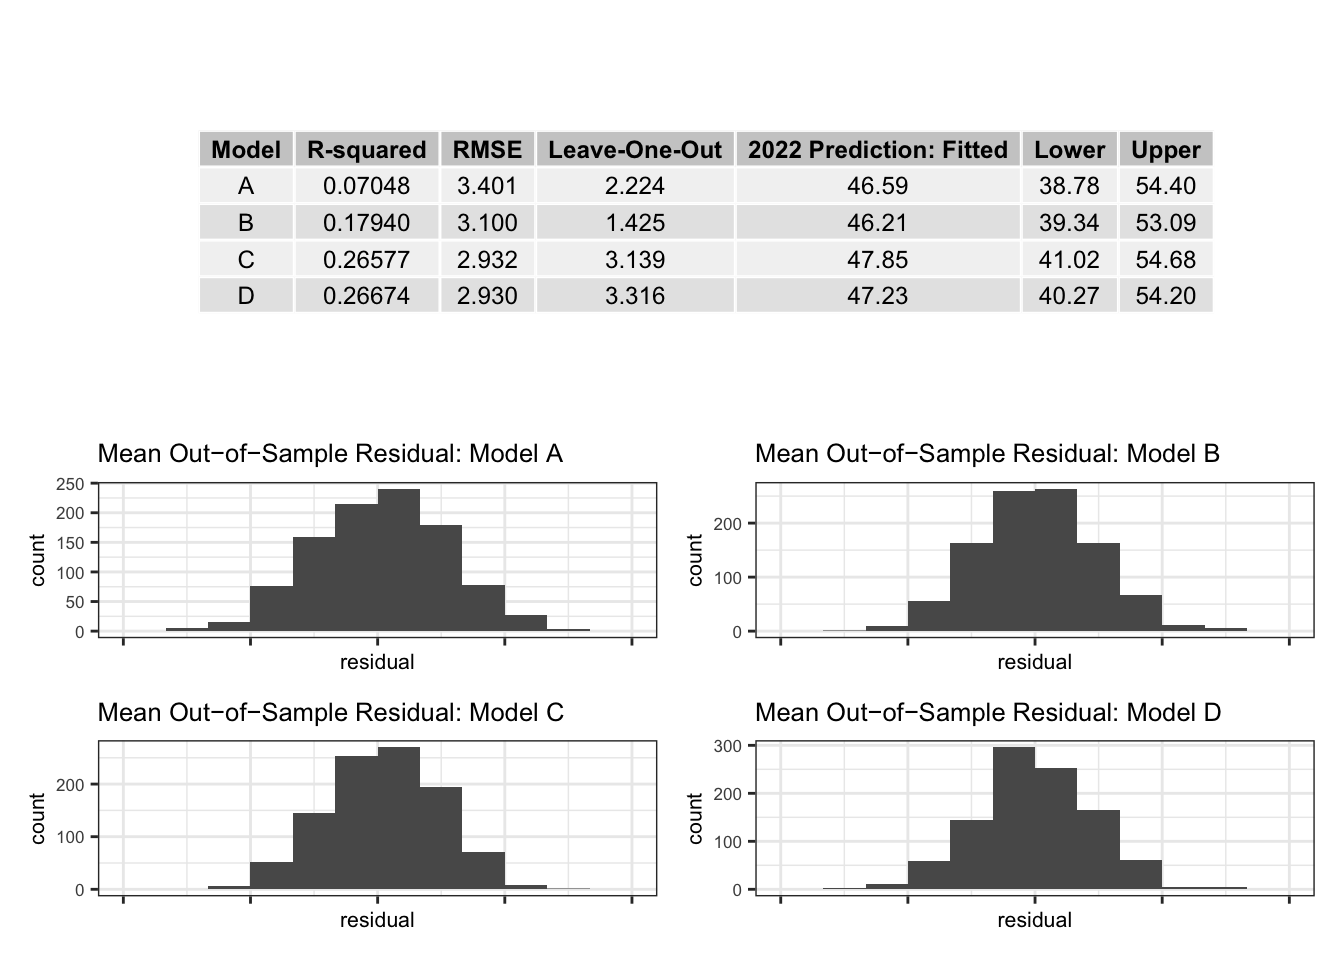
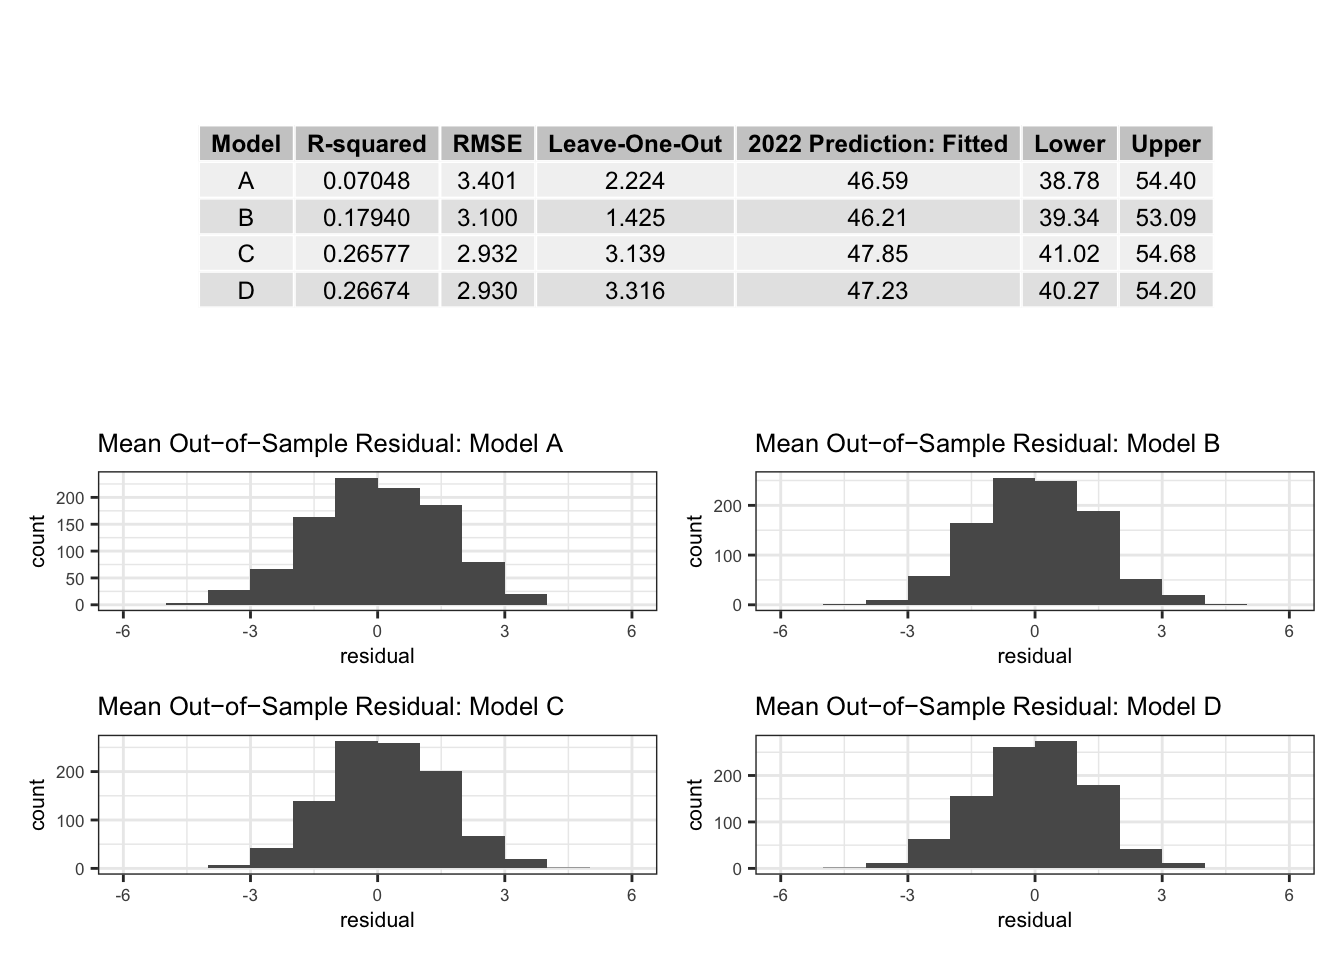
Finalize post 2

diff --git a/content/posts/02-economy/index.html b/content/posts/02-economy/index.html
@@ -7,16 +7,16 @@ output: html_document
 
 
 
+<p>Voters often look back to the past when deciding who to vote for. In particular, for good or for bad, economic conditions tend to have an impact on how well the party in power performs in elections (Achen &amp; Bartels, 2017). In this week, I will focus on economic conditions as a key predictor of electoral outcomes.</p>
 <div id="economic-voting" class="section level2">
 <h2>Economic Voting</h2>
+<p>Focusing on Presidential elections, Achen &amp; Bartels (2017) demonstrate that short-term economic growth is a strong predictor of the popular vote margin of the President’s party. They argue that the growth in real disposable income (RDI) per capita in the 2nd and 3rd quarter of the Presidential election year is a better predictor than cumulative growth.</p>
+<p>Keeping this in mind, I hypothesize that the short-term changes in the state of the economy in the leadup to Congressional elections are strong predictors of how well the incumbent President’s party performs. Similar to Achen &amp; Bartels (2017), I focus on the state of economy in the 2nd and 3rd quarter of the election year (Q6 and Q7). Focusing on Congressional elections between 1948 and 2020, I measure the performance of the President’s party by calculating the President’s party’s two-party vote share. As seen in Table 1, the independent variables in Models (1) ~ (6) are the RDI growth between Q6 and Q7, gross domestic product (GDP) growth between Q6 and Q7, unemployment in Q7, and whether the election is a midterm election. I included a dummy variable for midterms because the President’s party has tended to lose seats in a midterm election year (Campbell, 2018, p. 1).</p>
 <p><img src="table1.png" /></p>
-<div id="whats-wrong-with-these-models-multicollinearity" class="section level4">
-<h4>What’s wrong with these models?: Multicollinearity</h4>
-<p>-0.72 and (p-value: 4.2e-06)</p>
-<p>0.58 (p-value: 8e-04)</p>
-</div>
-<div id="whats-wrong-with-these-models-outlier" class="section level4">
-<h4>What’s wrong with these models?: Outlier</h4>
+<div id="whats-wrong-with-these-models-multicollinearity-outlier" class="section level4">
+<h4>What’s wrong with these models?: Multicollinearity &amp; Outlier</h4>
+<p>As seen in Table 1, none of the variables in Models (1) ~ (6) were statistically significant. There are several issues with these models. In particular, the fact that both RDI growth and GDP growth were included as independent variables in models (5) and (6) could have been problematic because the two variables may be correlated. The correlation coefficient between RDI growth and GDP growth was -0.72 (p-value: 4.2e-06). This may seem surprising because in theory, RDI growth and GDP growth should be positively correlated. As seen in Figure 1, the correlation coefficient may have been affected by an outlier: 2020.</p>
+<p>The rest of the observations seem to suggest that there is a positive correlation. Indeed, after discarding the data from 2020, I found that the correlation coefficient was 0.58 (p-value: 8e-04). Because this suggests that there is a risk of multicollinearity, I decided not to include both RDI growth and GDP growth as independent variables in my models. Furthermore, I decided to exclude 2020 from my analysis because the data from 2020 harms the predictive power of the models.</p>
 <div class="figure"><span style="display:block;" id="fig:outlier"></span>
 <img src="{{< blogdown/postref >}}index_files/figure-html/outlier-1.png" alt="GDP Growth vs RDI Growth: Q7-Q8" width="672" />
 <p class="caption">
@@ -27,7 +27,9 @@ Figure 1: GDP Growth vs RDI Growth: Q7-Q8
 </div>
 <div id="predictive-models" class="section level2">
 <h2>Predictive Models</h2>
+<p>Based on these observations, I built 4 predictive models. Whereas in model (A), the independent variable of interest is RDI growth between Q6 and Q7, in Model (B), I replace that with Q6-Q7 GDP growth. In Model (C), I included unemployment in Q7 as an independent variable because incumbent parties tend to be punished for high unemployment, though the effect may differ based on the party in power (Wright, 2012). (Note that while Wright (2012) suggests that higher unemployment is associated with higher vote shares for Democratic candidates, I was not able to identify such a trend when I ran a regression only for the years in which the incumbent President was a Democrat.) In Model (D), I shed light on the impact of cumulative GDP growth rate (between Q1 and Q7). Comparing Model (C) and Model (D) is important because some suggest that while voters do tend to judge incumbent Presidents based on economic conditions in the election year, they actually want to judge incumbent Presidents based on cumulative records (Healy &amp; Lenz, 2014).</p>
 <p><img src="table2.png" /></p>
+<p>As seen in Table 2, Models (B), (C), and (D) seem to be promising. Whereas RDI growth did not have a statistically significant impact, GDP growth between Q6 and Q7 had a statistically positive and significant impact on the President’s Party’s vote share (Model (B)). In addition to GDP growth, unemployment in Q7 had a negative and statistically significant impact (Model (C)). Interestingly, even after replacing short-term (Q6-Q1) GDP growth rate with cumulative (Q1-Q7) GDP growth rate, I found out that GDP growth rate still had a positive and statistically significant impact. Voters may partially take into account the President’s cumulative records even though they tend to judge the President based on the economic conditions in the election year.</p>
 </div>
 <div id="model-testing-and-predictions" class="section level2">
 <h2>Model Testing and Predictions</h2>
@@ -37,16 +39,20 @@ Figure 1: GDP Growth vs RDI Growth: Q7-Q8
 Figure 2: Actual Values vs Predicted Values
 </p>
 </div>
+<p>By comparing the predicted values based on Models (A) ~ (D) with the actual vote share, we can see that Models (C) and (D) tend to better predict the vote share (Figure 2). Indeed, the adjusted R^2 for Models (C) and (D) are higher than the adjusted R^2 for Models (A) and (B). Also, the root-mean-squared error was lower for Models (C) and (D) (See Figure 3 for details).</p>
+<p>I also conducted out-of-sample model testing to evaluate the models. First, for each of the models, I withheld the observation for the 2018 elections before fitting and observed how well the models predict the vote share in 2018. Here, I observed that model B performed the best (Figure 3, “Leave-One-Out”). Second, I conducted 1000 runs of cross-validation for each of the models, randomly holding out 8 observations in each iteration. As seen in the bottom half of Figure 3, the mean out-of-sample residuals tended to be around -1 to 1. The mean out-of-sample residuals based on Model D seemed to best cluster around 0. Overall, Models (C) and (D) seem to have nearly equivalent predictive power, though Model (D) slightly performs better.</p>
 <div class="figure"><span style="display:block;" id="fig:unnamed-chunk-2"></span>
 <img src="{{< blogdown/postref >}}index_files/figure-html/unnamed-chunk-2-1.png" alt="Model Testing &amp; Predictions" width="672" />
 <p class="caption">
 Figure 3: Model Testing &amp; Predictions
 </p>
 </div>
-<div id="predictions" class="section level3">
-<h3>Predictions</h3>
-</div>
+<p>Finally, I calculated the predictions for 2022 based on the 4 models. Since the data for Q7 is not available yet, I used the data from Q6 as a substitute. I measured short-term economic growth based on the change between Q6 and Q5 and long-term economic growth based on the change between Q6 and Q1. For all 4 models, the predicted President’s party’s vote share was 46 to 48%. However, since the confidence intervals are wide, it seems that the analysis I did this week is not be enough to accurately predict the outcomes of this election cycle (Figure 3, “2022 Prediction”). Note that there is little difference between Model (C) and Model (D), both in terms of how well they perform in various model evaluation metrics as well as the predicted vote share for 2022. This reinforces my analysis that whether we measure GDP growth based on Q6-Q7 records or on Q1-Q7 records does not make much difference.</p>
 </div>
 <div id="references" class="section level2">
 <h2>References</h2>
+<p>Achen, C. H. &amp; Bartels, L. M. (2017). <em>Democracy for realists :why elections do not produce responsive government.</em> Princeton University Press.</p>
+<p>Campbell, J. (2018). Introduction: Forecasting the 2018 US Midterm Elections. <em>PS: Political Science &amp; Politics, 51</em>(S1), 1-3. <a href="doi:10.1017/S1049096518001592" class="uri">doi:10.1017/S1049096518001592</a></p>
+<p>Healy, A. &amp; Lenz, G. S. (2014). Substituting the End for the Whole: Why Voters Respond Primarily to the Election-Year Economy. <em>American Journal of Political Science, 58</em>(1), 31–47. <a href="https://doi.org/10.1111/ajps.12053" class="uri">https://doi.org/10.1111/ajps.12053</a></p>
+<p>Wright, J. R. (2012). Unemployment and the Democratic Electoral Advantage. <em>American Political Science Review, 106</em>(4), 685–702. <a href="https://doi.org/10.1017/S0003055412000330" class="uri">https://doi.org/10.1017/S0003055412000330</a></p>
 </div>
